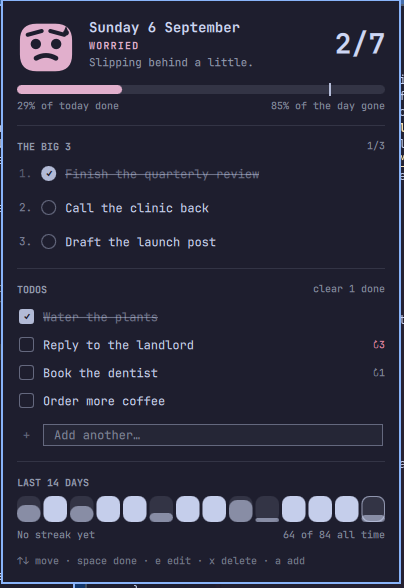
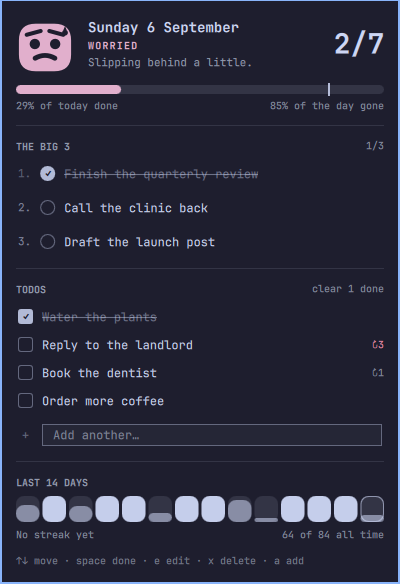
Meet the marketplace listing requirements
The community marketplace (plugins.omarchy.org) checks for things a plain
GitHub push does not provide:

- manifest.json needs a `license` field of its own, separate from LICENSE
- the README must document removal, not just installation
- external dependencies and privilege boundaries must be stated plainly, so
  a reviewer can see what the plugin touches without reading all of it
- a root preview image is used for the listing card

Also trims the panel screenshot to the panel's exact bounds; the old crop had
caught two columns of desktop behind it.

Claude-Session: https://claude.ai/code/session_014Ruj4Gu4tHAuUcmCJECmWK

diff --git a/README.md b/README.md
@@ -18,7 +18,29 @@ omarchy bar move saikomantisu.todos --after omarchy.clock
 Plugins run as unsandboxed code inside `omarchy-shell`, so read the source
 first — it is five QML files and a JS module, and it is meant to be read.
 
-Requires Omarchy with the Quickshell-based shell (`omarchy-shell`).
+### Removing it
+
+```bash
+omarchy plugin remove saikomantisu.todos --yes
+```
+
+That takes the widget out of the bar and deletes the plugin. Your history is
+deliberately left behind, so reinstalling picks up where you left off. To
+delete that too:
+
+```bash
+rm -rf ~/.local/share/omarchy-todos
+```
+
+### Requirements
+
+Omarchy with the Quickshell-based shell (`omarchy-shell`). Nothing else — no
+runtime, no daemon, no account, no network access. The only external commands
+it ever runs are `mkdir` (to create its own data directory) and Omarchy's own
+`omarchy-notification-send`, used once a day at most to tell you what got
+carried over. It writes to exactly one path,
+`~/.local/share/omarchy-todos/`, plus its own entry in `shell.json` when you
+right-click the widget to toggle the count.
 
 ## The bar widget
 
@@ -50,7 +72,7 @@ Stress also shifts Pip's colour from your theme's foreground toward its urgent
 colour, so the mood lands before you have parsed the face.
 
 Pip is drawn, not shipped as an image: a solid silhouette with the features
-punched out of it. Outlined faces turn to mud at 22px; negative space does
+punched out of it. Outlined faces turn to mud at 19px; negative space does
 not. That means Pip follows your theme, and is the same character at bar size
 and at panel size.
 
